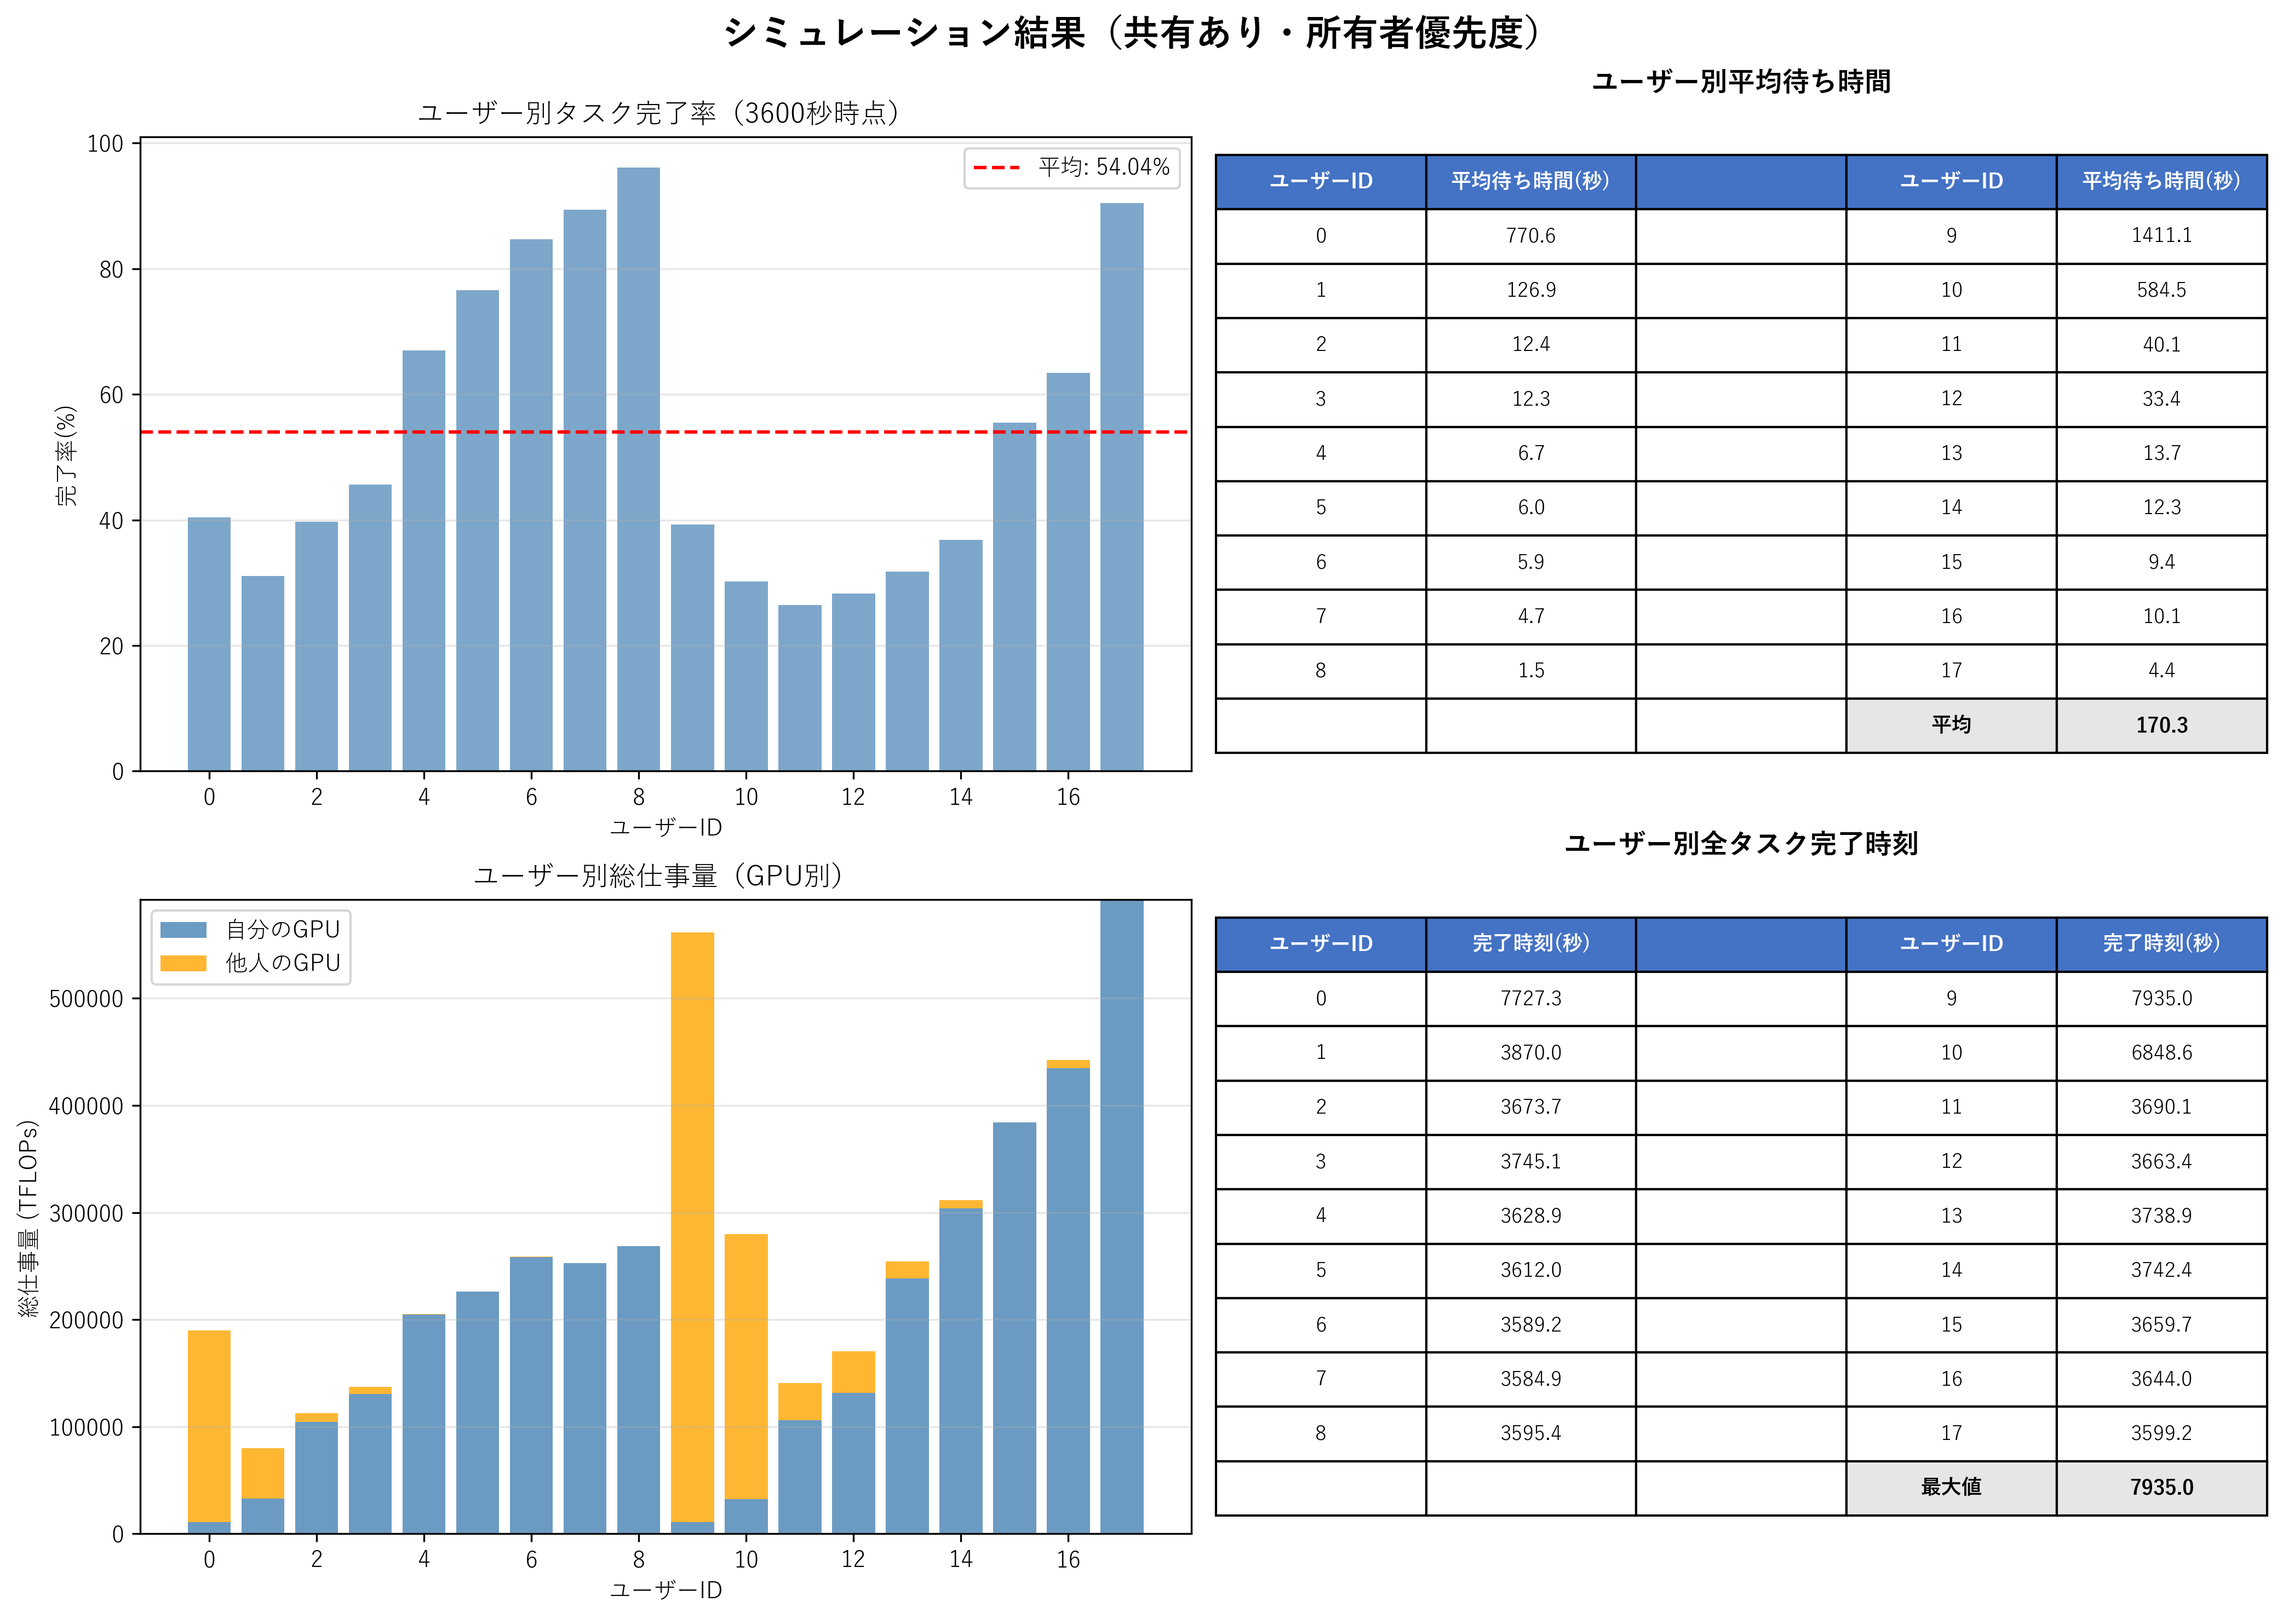
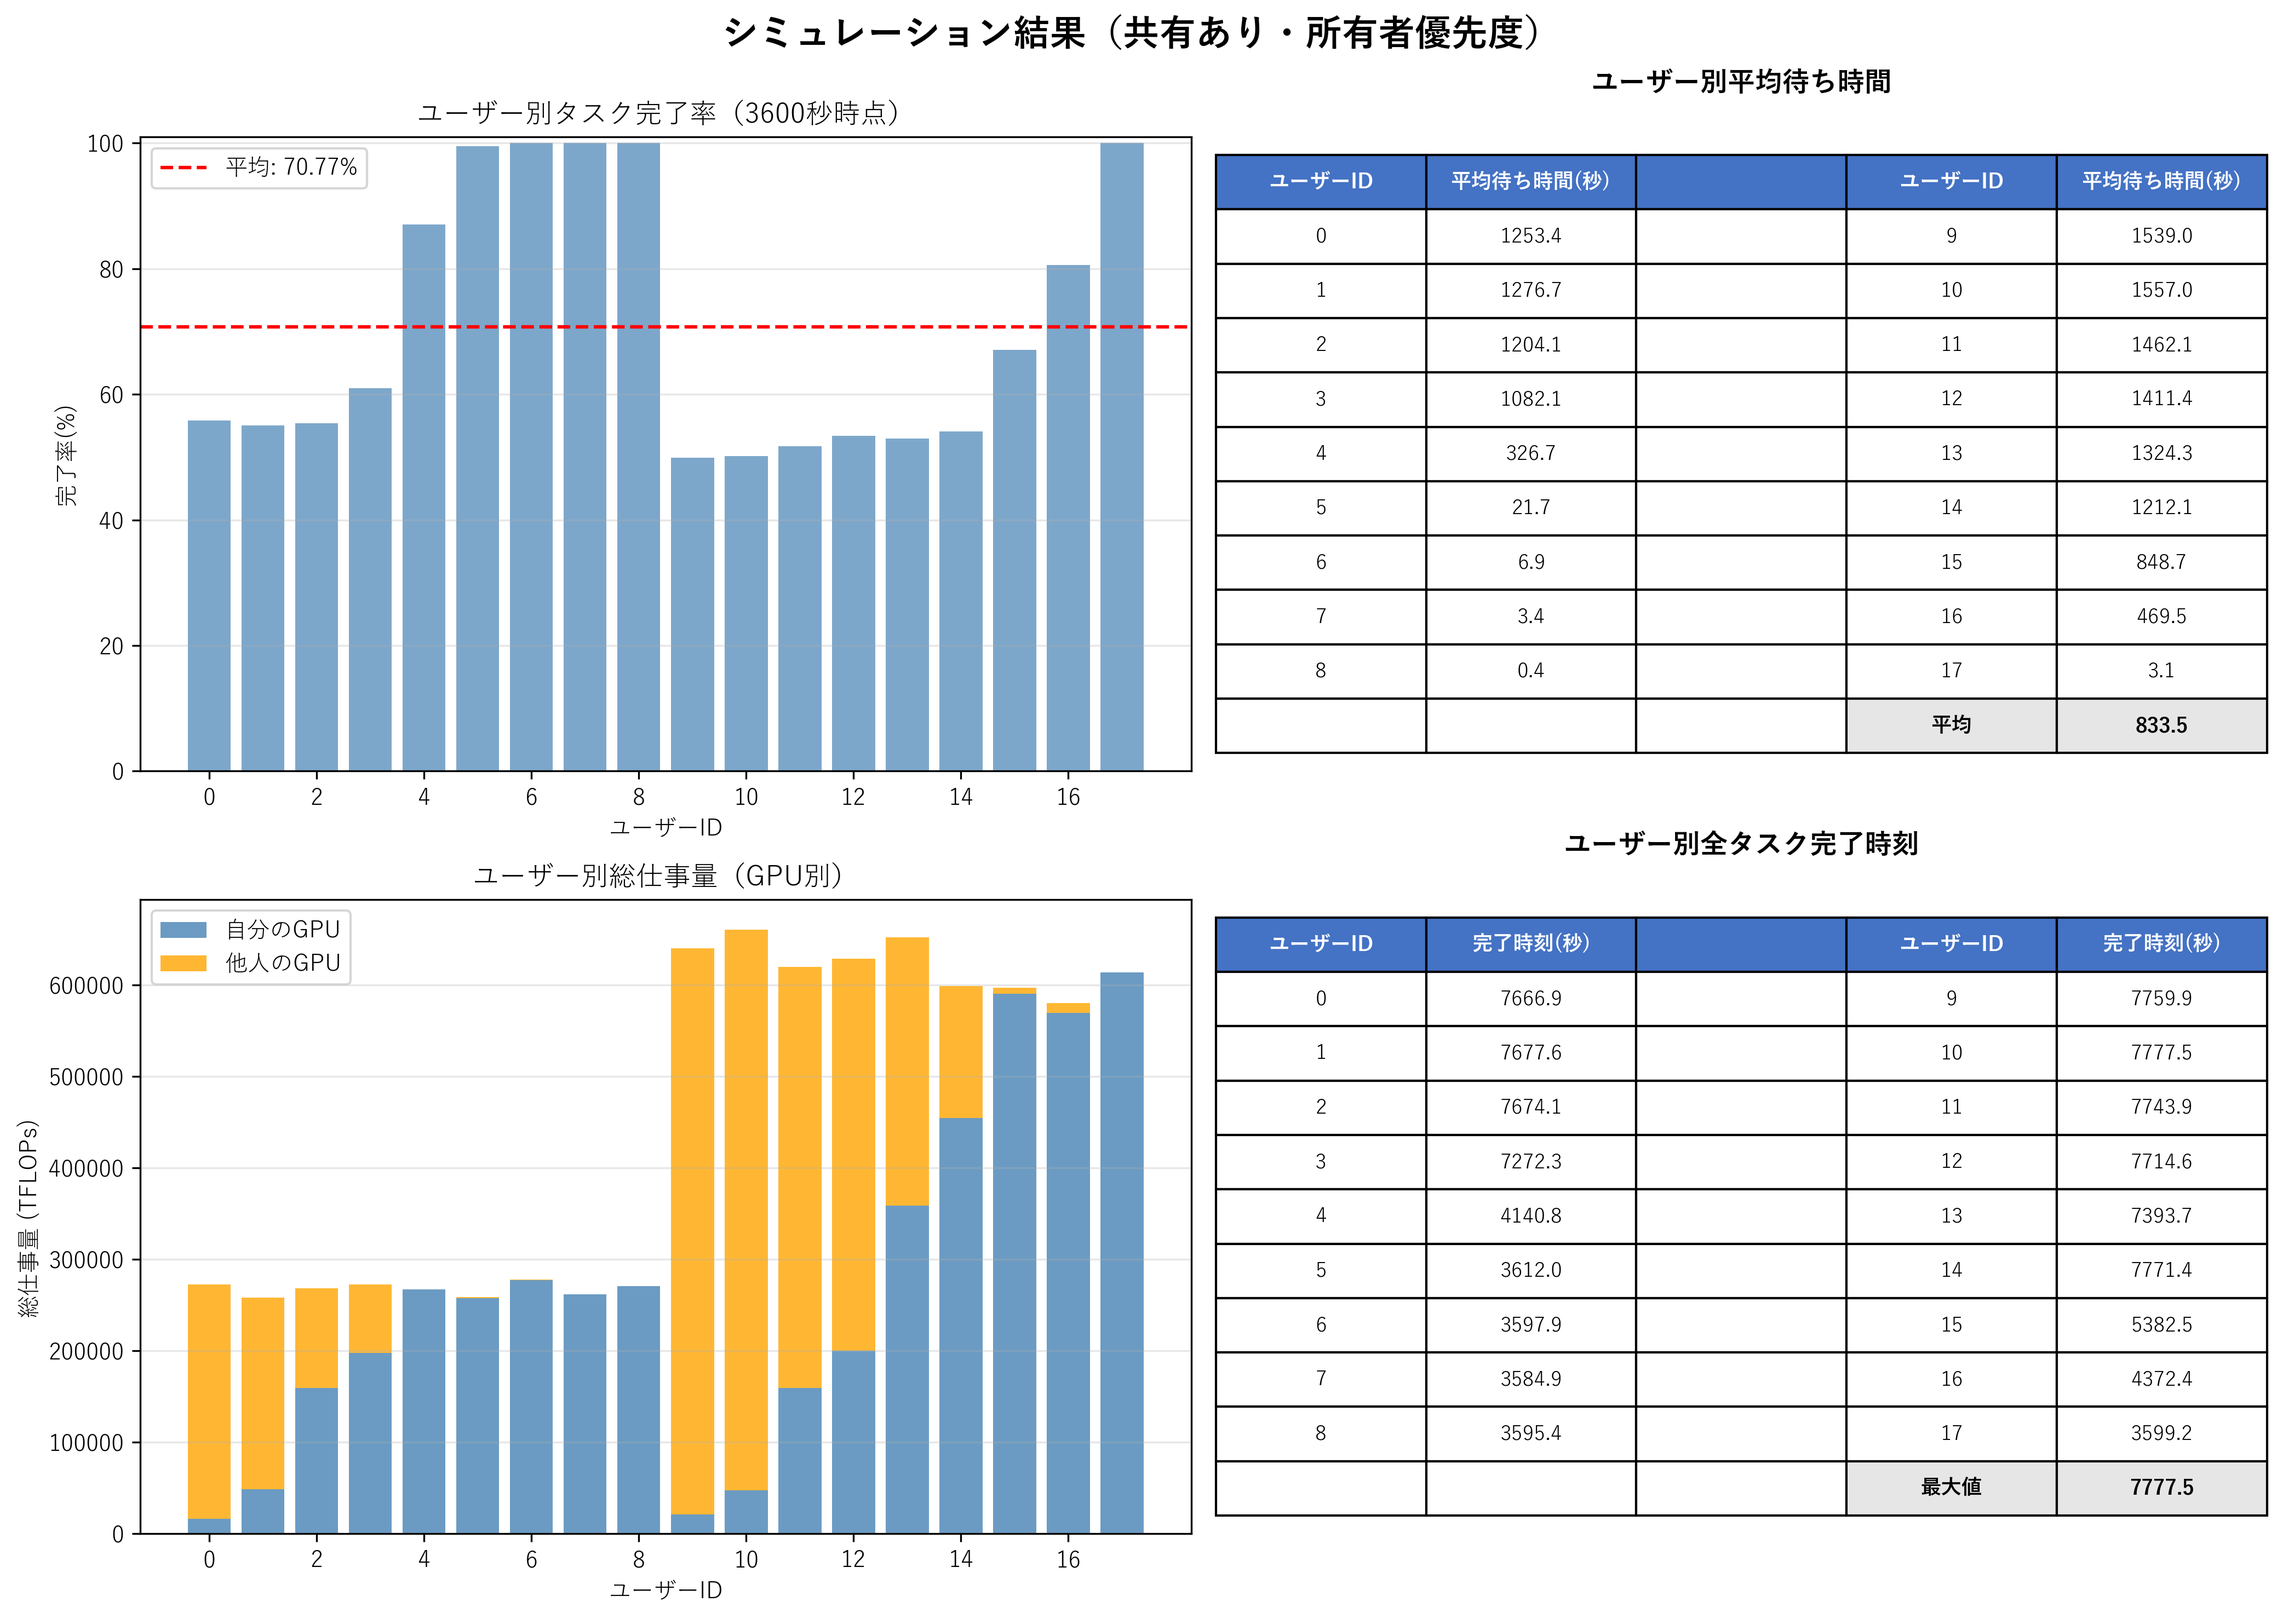
プリエンプト処理の改善: start_time保持、完了フラグ追加、締切判定削除でタスク完了率100%達成

diff --git a/simulation/simulation_with_sharing_owner_preemption.py b/simulation/simulation_with_sharing_owner_preemption.py
@@ -190,7 +190,9 @@ class SimulatorWithOwnerPreemption:
         if gpu.current_task is not None:
             raise RuntimeError(f"GPU {gpu.gpu_id} already has a running task {gpu.current_task.task_id}")
         
-        task.start_time = self.current_time
+        # 初回実行時のみstart_timeを設定（プリエンプト後の再開では上書きしない）
+        if not hasattr(task, 'start_time') or task.start_time is None:
+            task.start_time = self.current_time
         gpu.current_task = task
         # 所有者以外は実効レートを適用して遅延を反映
         if self.gpu_owner[gpu.gpu_id] == task.user_id:
@@ -247,16 +249,6 @@ class SimulatorWithOwnerPreemption:
         # タスクサイズ→残作業として保持
         task.remaining_work = self.compute_job_size(user_id, task.arrival_time)
         task.total_work = task.remaining_work
-        # 締切（ユーザー自身のティア処理レートを基準にしたサービス時間×係数）
-        # ユーザーのティアを取得
-        tier = None
-        for tier_name, user_list in GPU_TIER_ASSIGNMENT.items():
-            if user_id in user_list:
-                tier = tier_name
-                break
-        owner_rate = GPU_PERFORMANCE_LEVELS[tier] if tier is not None else 1.0
-        base_service_time = task.remaining_work / owner_rate
-        task.deadline = task.arrival_time + DEADLINE_FACTOR * base_service_time
         self.all_tasks.append(task)
 
         # 最適GPU選択（他GPUは中断リスク期待値込み）
@@ -300,15 +292,11 @@ class SimulatorWithOwnerPreemption:
         # タスクIDが一致しない場合は古いイベント（プリエンプトされた）なので無視
         if task.task_id != expected_task_id:
             return
-        # 締切チェック：期限を過ぎていれば失敗扱いとしてcompletion_timeを設定しない
-        if task.deadline is not None and self.current_time > task.deadline:
-            task.failed = True
-            task.completion_time = None
-            # 失敗タスクはremaining_workを維持（デバッグ用）
-        else:
-            task.completion_time = self.current_time
-            # 正常完了のみremaining_workを0に
-            task.remaining_work = 0.0
+        
+        # タスク完了
+        task.completion_time = self.current_time
+        task.remaining_work = 0.0
+        task.completed = True  # 明示的に完了フラグを設定
         gpu.current_task = None
 
         # 次があれば開始
@@ -328,21 +316,21 @@ class SimulatorWithOwnerPreemption:
             elif event_type == "gpu_finish":
                 self.process_gpu_finish(data)
 
-        # シミュレーション終了時：キューに残っているタスクと実行中タスクを失敗扱い
+        # シミュレーション終了時：キューに残っているタスク（完了していないもの）を失敗扱い
         for gpu in self.shared_gpus:
             if gpu.current_task is not None:
                 gpu.current_task.failed = True
+                gpu.current_task.completion_time = None
             for t in gpu.task_queue:
-                t.failed = True
+                if not getattr(t, 'completed', False):
+                    t.failed = True
+                    t.completion_time = None
 
         print(f"シミュレーション終了：時刻 {self.current_time}")
         print(f"発生したタスク総数：{len(self.all_tasks)}")
         print(f"\n[プリエンプト統計]")
         print(f"プリエンプト発生回数：{self.preemption_count}")
         print(f"再割当：自分GPU={self.realloc_own}, 元GPU待ち={self.realloc_wait_here}, 他GPU={self.realloc_other}")
-        deadline_failures = sum(1 for t in self.all_tasks if t.failed and t.deadline is not None and t.completion_time is None)
-        timeout_in_queue = sum(1 for t in self.all_tasks if t.failed and t.start_time is None)
-        print(f"締切違反：{deadline_failures}件, キューでタイムアウト：{timeout_in_queue}件")
         return self.all_tasks
 
 
